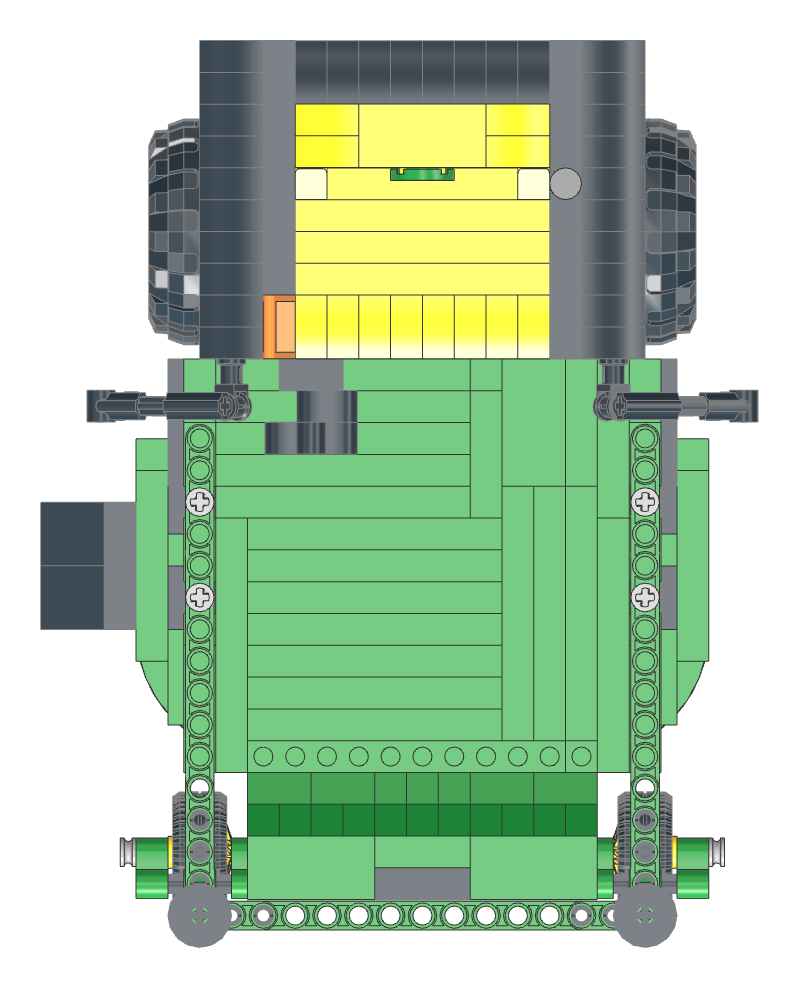
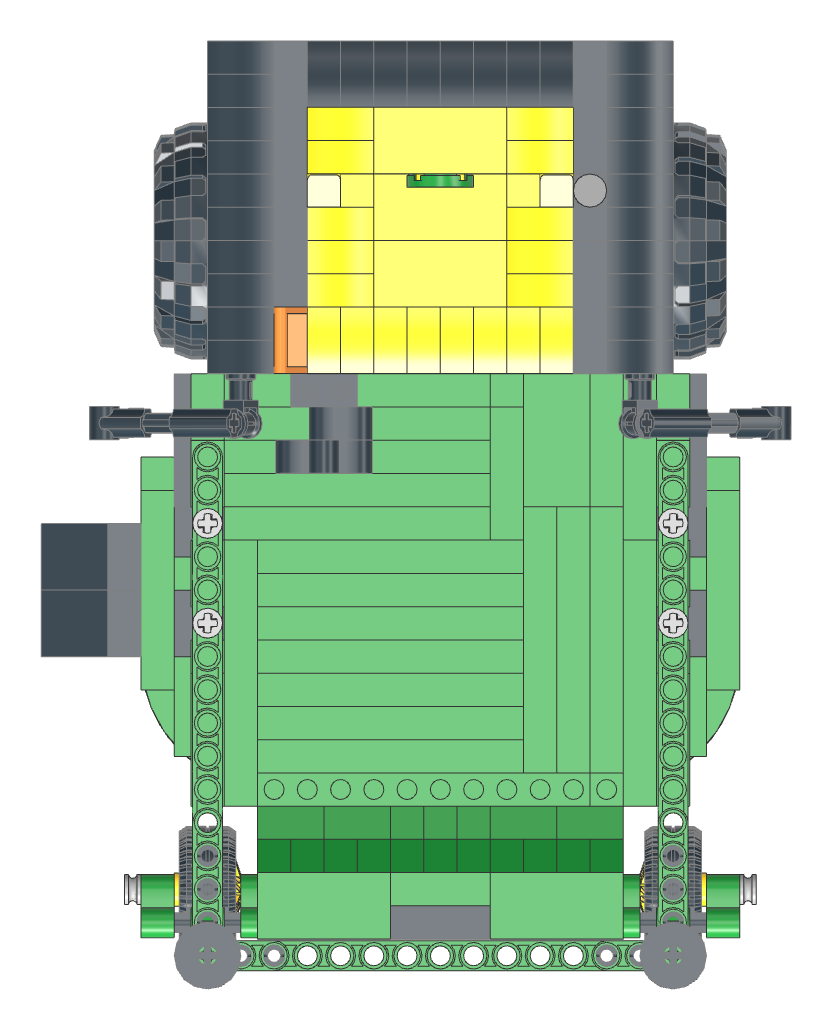
Seat cushion side bolsters, printable sticker sheet, refreshed renders and viewer
Claude-Session: https://claude.ai/code/session_01UWC7q9w3T9XVMtL4ptpFJf

diff --git a/model/z315e.py b/model/z315e.py
@@ -338,7 +338,11 @@ def seat():
     s.step()
     # cushion
     fill(s, "brick", YELLOW, -80, 80, -40, 40, -208)
-    fill(s, "tile", YELLOW, -80, 80, -40, 40, -216, avoid=[(-70, 30), (70, 30)])
+    side = [(x, z) for x in (-70, -50, 50, 70) for z in (-30, -10, 10)]
+    fill(s, "tile", YELLOW, -80, 80, -40, 40, -216, avoid=[(-70, 30), (70, 30)] + side)
+    for z in (-30, -10, 10):
+        s.add("11477", YELLOW, (60, -208, z), rot(z="+X", y="+Y"), "cushion side bolster")
+        s.add("11477", YELLOW, (-60, -208, z), rot(z="-X", y="+Y"), "cushion side bolster")
     fill(s, "plate", YELLOW, -80, 80, -80, -40, -192)
     fill(s, "plate", YELLOW, -80, 80, -80, -40, -200)
     for x in range(-70, 71, 20):

diff --git a/README.md b/README.md
@@ -7,7 +7,7 @@ En byggbar LEGO-modell av nollsvängsklipparen John Deere Z315E med 42-tums klip
 | | |
 |---|---|
 | Skala | 1:8 (bakdäck 56 mm = 18" i verkligheten, framhjul 30 mm) |
-| Antal delar | 437 (112 olika del/färg-kombinationer) |
+| Antal delar | 443 (111 olika del/färg-kombinationer) |
 | Mått | ca 23 × 18 × 14 cm (L × B × H) |
 | Färger | grön, gul, svart, mörk och ljus blågrå, en orange detalj |
 | Filformat | LDraw MPD – öppnas i BrickLink Studio, LeoCAD eller LDCad |
@@ -36,12 +36,12 @@ Den enda ovanligare delen är den gröna Technic-balken 1 × 15 (32278). Den har
 Modellen är inte provbyggd fysiskt än, men den har kontrollerats digitalt med verktygen i `tools/`:
 
 - **Delar och färger:** varje del/färg-kombination har slagits upp i Rebrickables lagerdata. Alla förekommer i officiella LEGO-set, och de automatiskt utlagda plattorna och klossarna använder bara kombinationer som funnits i minst tre set.
-- **Anslutningar:** alla stift, axlar, hål och knoppar matchas mot anslutningsdata från LDCad Shadow Library. Alla 437 delar hänger ihop i en enda struktur, och inga stift sitter i fel sorts hål.
+- **Anslutningar:** alla stift, axlar, hål och knoppar matchas mot anslutningsdata från LDCad Shadow Library. Alla 443 delar hänger ihop i en enda struktur, och inga stift sitter i fel sorts hål.
 - **Kollisioner:** varje del voxeliseras med 1 LDU (0,4 mm) upplösning. Inga delar går in i varandra.
 
 Saker som är förenklade jämfört med originalet:
 
-- Dekalerna ("JOHN DEERE", "Z315E" och hjortlogotyperna) ingår inte. Den gröna runda brickan på sätet och den svarta brickan på fotstödet sitter där logotyperna ska vara, och egna klistermärken kan sättas på dem.
+- Dekalerna ingår inte som LEGO-delar. [`stickers/z315e_stickers.svg`](stickers/z315e_stickers.svg) är ett ark i skala 1:1 med "JOHN DEERE", "Z315E" och varningsetiketter, som kan skrivas ut på klisteretikettpapper. Hjortlogotyperna är inte med; den gröna runda brickan på sätet sitter där logotypen ska vara.
 - Den gula randen på sidopanelen är rak. På originalet lutar den.
 - Klippaggregatet sitter på fast höjd. Lyftpedalen är bara en detalj.
 
@@ -51,6 +51,7 @@ Saker som är förenklade jämfört med originalet:
 model/z315e.py        generator: hela modellen beskriven i Python (koordinater i LDU)
 model/z315e.mpd       den genererade LDraw-modellen
 docs/                 dellistor (BrickLink, Rebrickable, Markdown)
+stickers/             dekalark att skriva ut
 renders/              renderingar
 viewer/               3D-visare med byggsteg (three.js + LDrawLoader)
 tools/check.py        kontroll av anslutningar, kollisioner och färger
@@ -78,5 +79,7 @@ python3 tools/build_viewer.py
 |---|---|
 | ![Framifrån vänster](renders/z315e-front-left.png) | ![Bakifrån](renders/z315e-rear.png) |
 | ![Från sidan](renders/z315e-side.png) | ![Ovanifrån](renders/z315e-top.png) |
+
+LDraw-delarna i `viewer/z315e_packed.mpd` kommer från LDraw.org-biblioteket (CC BY 4.0).
 
 John Deere och ZTrak är varumärken som tillhör Deere & Company. LEGO är ett varumärke som tillhör LEGO Group. Det här är ett fristående hobbyprojekt.

diff --git a/docs/parts.md b/docs/parts.md
@@ -1,4 +1,4 @@
-# Dellista – 437 delar, 112 unika del/färg-kombinationer
+# Dellista – 443 delar, 111 unika del/färg-kombinationer
 
 | Antal | Del | Färg | Benämning | Finns i antal officiella set |
 |---:|---|---|---|---:|
@@ -51,10 +51,9 @@
 | 4 | 3034 | Gul | Plate 2 x 8 | 244 |
 | 1 | 3036 | Gul | Plate 6 x 8 | 16 |
 | 2 | 54200 | Gul | Slope 30° 1 x 1 x 2/3 (Cheese Slope) | 354 |
-| 12 | 11477 | Gul | Slope Curved 2 x 1 No Studs [1/2 Bow] | 187 |
-| 1 | 6636 | Gul | Tile 1 x 6 with Groove | 225 |
-| 3 | 4162 | Gul | Tile 1 x 8 with Groove | 154 |
-| 1 | 87079 | Gul | Tile 2 x 4 with Groove | 219 |
+| 18 | 11477 | Gul | Slope Curved 2 x 1 No Studs [1/2 Bow] | 187 |
+| 2 | 3070b | Gul | Tile 1 x 1 with Groove | 377 |
+| 3 | 87079 | Gul | Tile 2 x 4 with Groove | 219 |
 | 2 | 55981 | Gul | Wheel 18 x 14 with Pin Hole, Fake Bolts and Shallow Spokes | 46 |
 | 2 | 56145 | Gul | Wheel 30.4 x 20 without Pinholes, with Reinforced Rim | 14 |
 | 8 | 32073 | Ljus blågrå | Technic Axle 5 | 850 |
